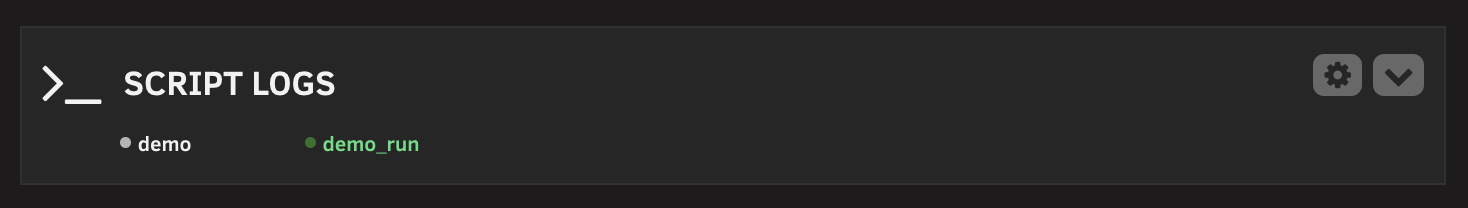
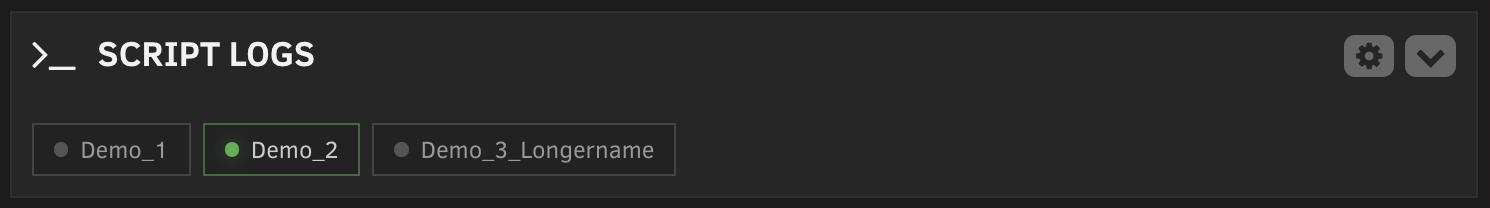
Refresh plugin documentation and metadata

diff --git a/README.md b/README.md
@@ -1,76 +1,102 @@
 # Scriptlogs for Unraid
 
-> A dashboard widget to monitor your User Scripts in real-time.
+Scriptlogs adds a compact dashboard widget for selected User Scripts. It shows script status and log output directly on the Unraid Dashboard, without keeping the User Scripts page open.
 
-This plugin adds a configurable widget to the Unraid Dashboard, allowing you to see the status and log output of your favorite scripts without needing to keep the User Scripts page open.
+## Screenshots
 
-![Scriptlogs Widget Screenshot slim script](https://raw.githubusercontent.com/jo-sobo/scriptlogs-unraid-plugin/main/scriptlogs_screenshot_slim.png)
-![Scriptlogs Widget Screenshot running script](https://raw.githubusercontent.com/jo-sobo/scriptlogs-unraid-plugin/main/scriptlogs_screenshot_running.png)
-![Scriptlogs Widget Screenshot idle script](https://raw.githubusercontent.com/jo-sobo/scriptlogs-unraid-plugin/main/scriptlogs_screenshot_idle.png)
+| Compact view | Running script |
+| --- | --- |
+| ![Compact Scriptlogs dashboard widget](scriptlogs_screenshot_slim.png) | ![Running script in the Scriptlogs dashboard widget](scriptlogs_screenshot_running.png) |
 
-## ✨ Features
+| Idle script | Scrollable log output |
+| --- | --- |
+| ![Idle script in the Scriptlogs dashboard widget](scriptlogs_screenshot_idle.png) | ![Scrollable Scriptlogs log output](scriptlogs_screenshot_scroll.png) |
 
-**Fully configurable via a dedicated settings page**
+## Features
 
-* Displays a compact, movable widget on your Unraid Dashboard.
-* Compact status overview when collapsed
-* Shows the real-time status of selected User Scripts with color-coded tabs (**Green** for running, **Gray** for idle).
-* Differentiates between **foreground scripts** (showing a notice to check the User Scripts window) and **background scripts** (showing a live log).
-* Optionally displays the last known log for idle scripts (from their last background run).
-* Auto-scrolling that can be switched on/off
-* Selectable log text size
+- Dashboard tile for selected User Scripts.
+- Color-coded script tabs for running and idle scripts.
+- Collapsed dashboard state with compact status chips.
+- Scrollable log viewer with optional auto-scroll.
+- Live log output for scripts running in the background.
+- Optional display of the last known background log for idle scripts.
+- Configurable refresh interval.
+- Configurable log font size.
+- Optional removal of empty log lines.
+- Script selection from a dedicated settings page.
 
+## Requirements
 
-## Prerequisites
+- Unraid 6.9 or newer.
+- [User Scripts](https://forums.unraid.net/topic/48286-plugin-user-scripts/) by Andrew Zawadzki.
 
-This plugin **requires** the **[User Scripts](https://forums.unraid.net/topic/48286-plugin-user-scripts/)** plugin by Andrew Zawadzki to be installed and functional.
+## Installation
 
-## 💾 Installation
+Scriptlogs is available through Unraid Community Applications.
 
-**Availiable in the UNRAID Community Apps Store**
+For manual installation:
 
+1. Open the Unraid web interface.
+2. Go to **Plugins**.
+3. Click **Install Plugin**.
+4. Paste this URL and install:
 
-or via manual install:
+   ```text
+   https://raw.githubusercontent.com/jo-sobo/scriptlogs-unraid-plugin/main/scriptlogs.plg
+   ```
 
-1.  In the Unraid web interface, go to the **Plugins** tab.
-2.  Click on **Install Plugin**.
-3.  Paste the following URL into the text box and click **Install**:
+## Configuration
 
-    ```
-    https://raw.githubusercontent.com/jo-sobo/scriptlogs-unraid-plugin/main/scriptlogs.plg
-    ```
+Open **Settings > User Utilities > Scriptlogs Settings** in the Unraid web interface.
 
-## ⚙ Configuration
+Available settings:
 
-After installation, you can configure the widget to your needs.
+- **Automatic refresh:** Enable or disable dashboard updates.
+- **Refresh interval:** Set how often the widget checks script status and logs.
+- **Idle script logs:** Show the last saved background log when a script is idle.
+- **Log font size:** Choose the text size used in the dashboard log viewer.
+- **Empty log lines:** Remove or preserve blank lines in log output.
+- **Script selection:** Choose which User Scripts appear in the dashboard widget.
 
-1.  Go to the **Utilities** tab in the Unraid web interface.
-2.  Click on **Scriptlogs Settings**.
-3.  From here you can:
-    * **Automatic Refresh:** Turn the live update feature on or off.
-    * **Refresh Interval:** Define how often the widget should update (in seconds).
-    * **Show Last Log for Idle Scripts:** If enabled, the widget will display the last saved log for any idle script that was previously run **in the background**.
-    * **Log Font Size** Change the text size inside the log view of the dashboard tile
-    * **Script Selection:** Use the checkboxes to choose which scripts you want to monitor on your dashboard.
-4.  Click **Apply** to save your changes. The widget on the dashboard will update accordingly.
+Click **Apply** to save changes. The dashboard widget updates on the next refresh.
 
-## 📝 How it Works
+## How It Works
 
-The widget periodically polls a backend API file. This API uses a hybrid approach to determine script status:
-1.  It checks the system's process list (`ps -ef`) for scripts running in the **foreground** (via `startScript.sh`).
-2.  It checks for a status file in `/tmp/user.scripts/running/` for scripts running in the **background**.
+The dashboard widget polls a local plugin API at the configured refresh interval.
 
-Live logs are read from the temporary `log.txt` files created by the User Scripts plugin in `/tmp/user.scripts/tmpScripts/`.
+Status detection uses the User Scripts runtime state:
 
-## 🙏 Acknowledgments
+- Foreground scripts are detected from the process list via `startScript.sh`.
+- Background scripts are detected through `/tmp/user.scripts/running/`.
 
-A big thank you to **Andrew Zawadzki** for creating and maintaining the excellent User Scripts plugin.
+Log output is read from User Scripts log files in:
 
-## ☕ Donation
+```text
+/tmp/user.scripts/tmpScripts/<script-name>/log.txt
+```
 
-If you appreciate my work and would like to support my efforts as a hobbyist developer, you can buy me a coffee! Every bit of support helps me to continue creating and maintaining projects like this one.
+Scriptlogs tails the most recent log output, optionally removes empty lines, and displays it in the dashboard tile. Foreground scripts still write their live output to the User Scripts window, so Scriptlogs shows a short notice instead of duplicating that stream.
 
-You can donate here: https://coff.ee/magnum.308
+## Support
+
+For general support, use the Unraid forum thread:
+
+https://forums.unraid.net/topic/192397-plugin-scriptlogs
+
+Source code and issue tracking are on GitHub:
+
+https://github.com/jo-sobo/scriptlogs-unraid-plugin/issues
+
+## Acknowledgments
+
+Thanks to Andrew Zawadzki for creating and maintaining the User Scripts plugin.
+
+## Donation
+
+If Scriptlogs is useful to you, donations are welcome:
+
+https://coff.ee/magnum.308
 
 ## License
-This project is licensed under the GPL v3 License - see the [LICENSE](LICENSE) file for details.
+
+This project is licensed under the GPL v3. See [LICENSE](LICENSE) for details.

diff --git a/source/README.md b/source/README.md
@@ -4,4 +4,6 @@ A dashboard widget to monitor the status and view the logs of your selected User
 
 **Requirements:** User Scripts plugin by Andrew Zawadzki
 
-**Support:** https://github.com/jo-sobo/scriptlogs-unraid-plugin/issues
+**Support:** https://forums.unraid.net/topic/192397-plugin-scriptlogs
+
+**GitHub:** https://github.com/jo-sobo/scriptlogs-unraid-plugin/issues
